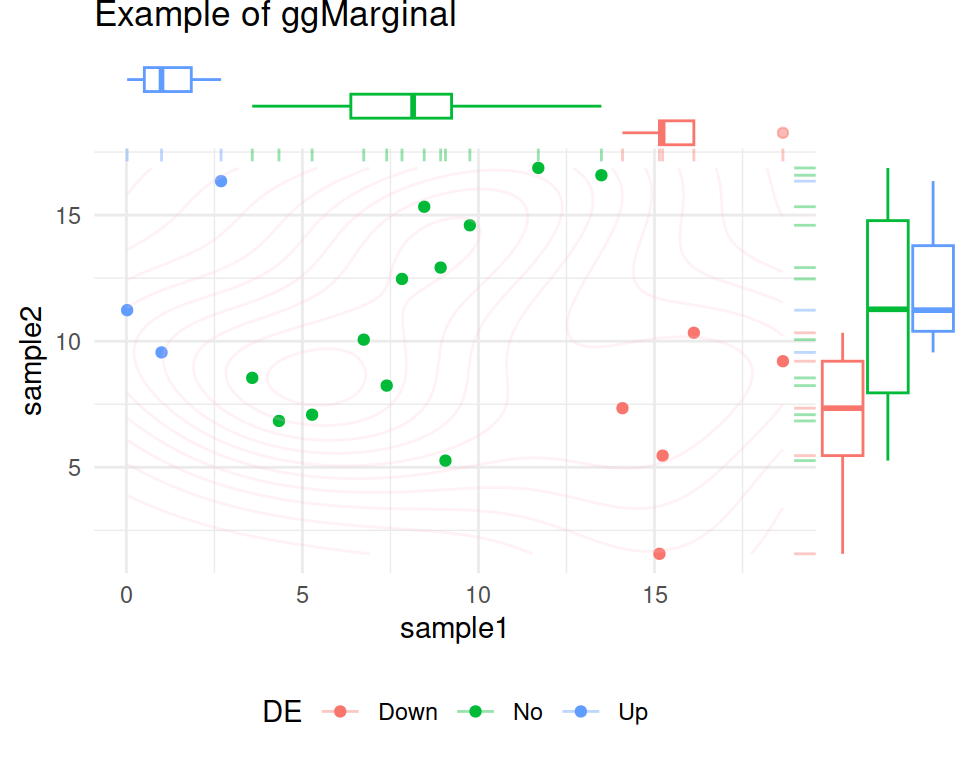
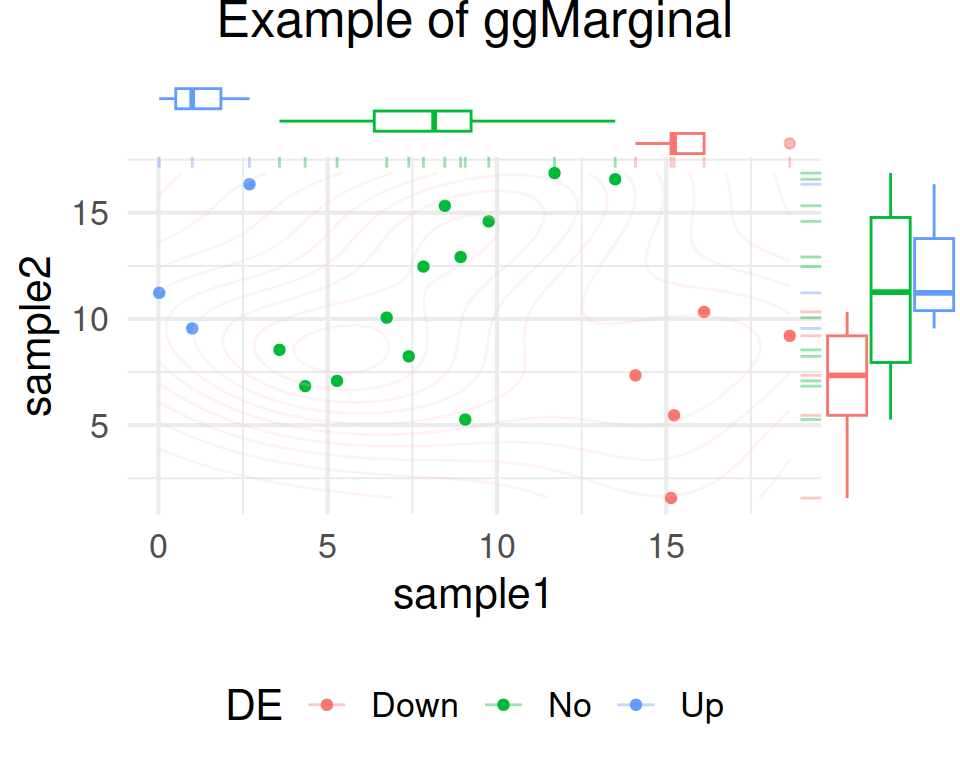
more marginal plotting

diff --git a/docs/marginal-plots.html b/docs/marginal-plots.html
@@ -295,15 +295,15 @@ code span.wa { color: #60a0b0; font-weight: bold; font-style: italic; } /* Warni
 <span id="cb131-5"><a href="marginal-plots.html#cb131-5" tabindex="-1"></a><span class="co"># tell ggMarginal to color / split the boxplot according to variable mapped in color/colour</span></span>
 <span id="cb131-6"><a href="marginal-plots.html#cb131-6" tabindex="-1"></a><span class="fu">ggMarginal</span>(p, <span class="at">type=</span><span class="st">&quot;boxplot&quot;</span>, <span class="at">groupColour =</span> <span class="cn">TRUE</span>)</span></code></pre></div>
 <p><img src="stepping-stone-idibaps-dataviz-2024_files/figure-html/unnamed-chunk-126-1.png" width="480" /></p>
-<p>Adding more features that we have seen so far (we will see more of “theme” later!):</p>
+<p>Adding more features that we have seen so far:</p>
 <div class="sourceCode" id="cb132"><pre class="sourceCode r"><code class="sourceCode r"><span id="cb132-1"><a href="marginal-plots.html#cb132-1" tabindex="-1"></a><span class="co"># add mapping of points to &quot;DE&quot; column :</span></span>
 <span id="cb132-2"><a href="marginal-plots.html#cb132-2" tabindex="-1"></a>p <span class="ot">&lt;-</span> <span class="fu">ggplot</span>(<span class="at">data=</span>geneexp, <span class="at">mapping=</span><span class="fu">aes</span>(<span class="at">x=</span>sample1, <span class="at">y=</span>sample2, <span class="at">color=</span>DE)) <span class="sc">+</span></span>
 <span id="cb132-3"><a href="marginal-plots.html#cb132-3" tabindex="-1"></a>  <span class="fu">geom_point</span>() <span class="sc">+</span></span>
-<span id="cb132-4"><a href="marginal-plots.html#cb132-4" tabindex="-1"></a>  <span class="fu">theme_minimal</span>() <span class="sc">+</span></span>
+<span id="cb132-4"><a href="marginal-plots.html#cb132-4" tabindex="-1"></a>  <span class="fu">theme_minimal</span>(<span class="at">base_size =</span> <span class="dv">16</span>) <span class="sc">+</span></span>
 <span id="cb132-5"><a href="marginal-plots.html#cb132-5" tabindex="-1"></a>  <span class="fu">geom_rug</span>(<span class="at">alpha=</span><span class="fl">0.4</span>, <span class="at">sides =</span> <span class="st">&quot;tr&quot;</span>) <span class="sc">+</span></span>
 <span id="cb132-6"><a href="marginal-plots.html#cb132-6" tabindex="-1"></a>  <span class="fu">geom_density_2d</span>(<span class="at">alpha=</span><span class="fl">0.2</span>, <span class="at">colour =</span> <span class="st">&quot;pink&quot;</span>) <span class="sc">+</span></span>
 <span id="cb132-7"><a href="marginal-plots.html#cb132-7" tabindex="-1"></a>  <span class="fu">ggtitle</span>(<span class="st">&quot;Example of ggMarginal&quot;</span>) <span class="sc">+</span></span>
-<span id="cb132-8"><a href="marginal-plots.html#cb132-8" tabindex="-1"></a>  <span class="fu">theme</span>(<span class="at">legend.position=</span><span class="st">&quot;bottom&quot;</span>)</span>
+<span id="cb132-8"><a href="marginal-plots.html#cb132-8" tabindex="-1"></a>  <span class="fu">theme</span>(<span class="at">legend.position=</span><span class="st">&quot;bottom&quot;</span>, <span class="at">plot.title =</span> <span class="fu">element_text</span>(<span class="at">hjust =</span> <span class="fl">0.5</span>))</span>
 <span id="cb132-9"><a href="marginal-plots.html#cb132-9" tabindex="-1"></a></span>
 <span id="cb132-10"><a href="marginal-plots.html#cb132-10" tabindex="-1"></a><span class="co"># tell ggMarginal to color / split the boxplot according to variable mapped in color/colour</span></span>
 <span id="cb132-11"><a href="marginal-plots.html#cb132-11" tabindex="-1"></a><span class="fu">ggMarginal</span>(p, <span class="at">type=</span><span class="st">&quot;boxplot&quot;</span>, <span class="at">groupColour =</span> <span class="cn">TRUE</span>)</span></code></pre></div>
